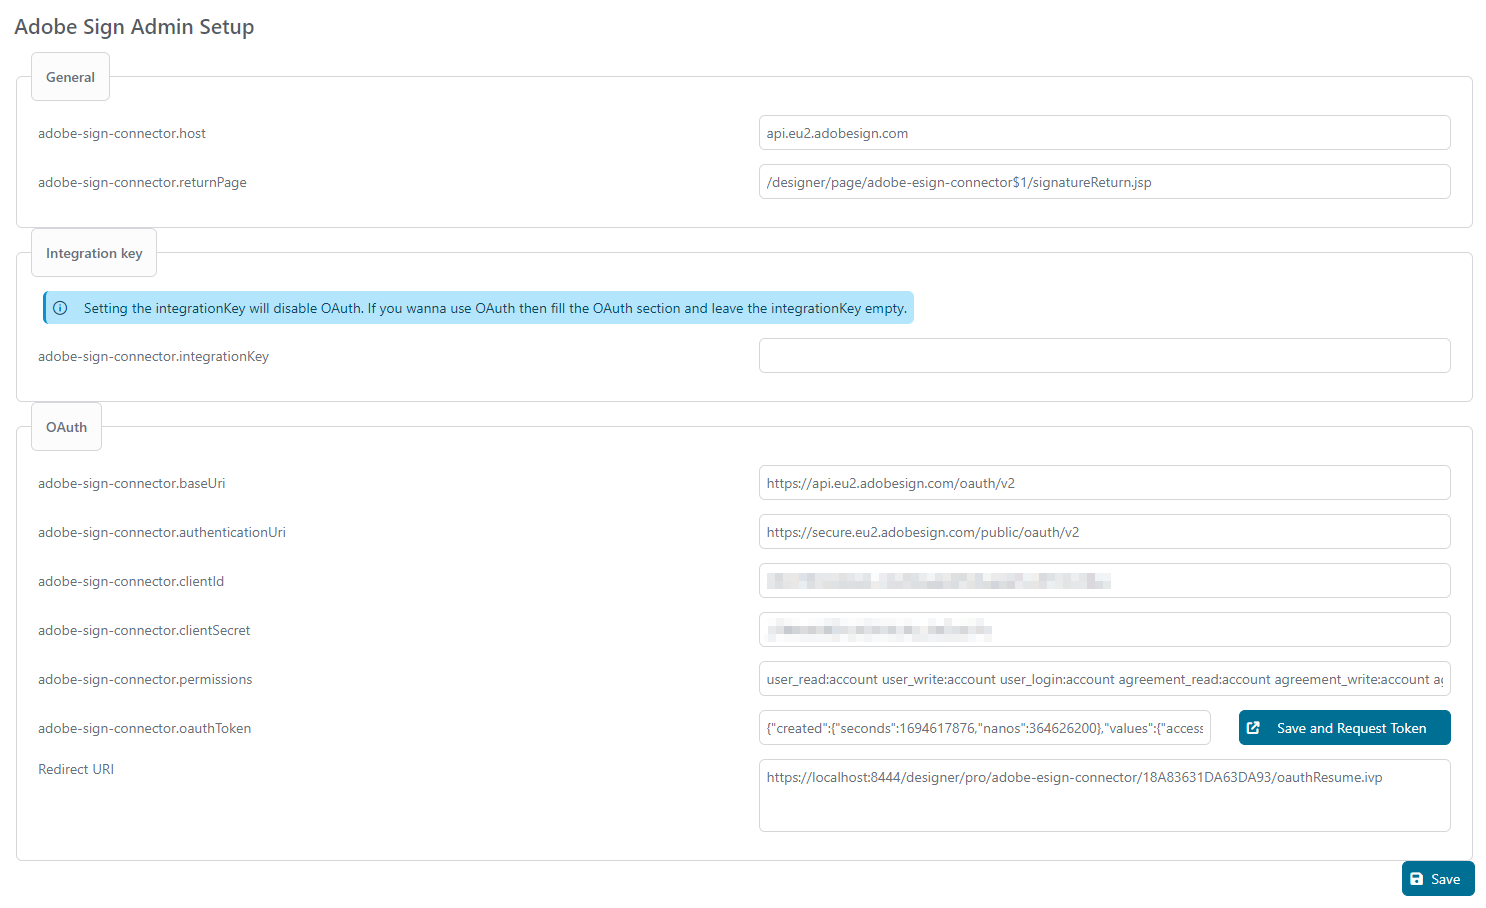
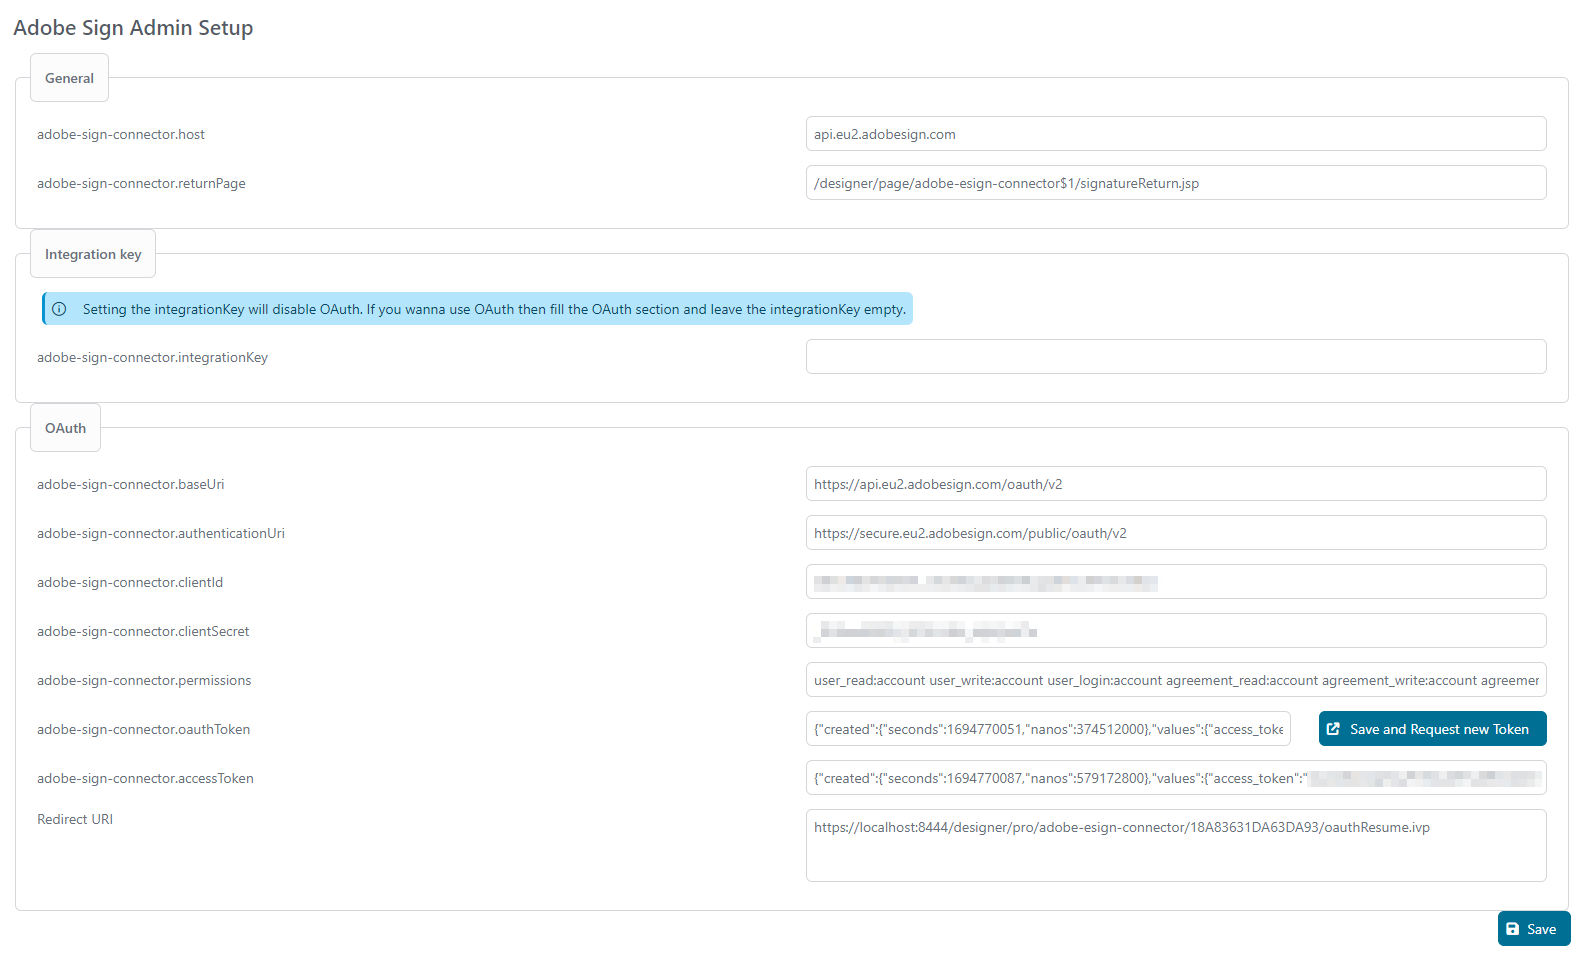
fix issue with storing refreshed tokens, improve admin page and documentation

diff --git a/adobe-esign-connector/src/com/axonivy/connector/adobe/esign/connector/service/AdminSetupService.java b/adobe-esign-connector/src/com/axonivy/connector/adobe/esign/connector/service/AdminSetupService.java
@@ -19,7 +19,6 @@ import org.primefaces.PrimeFaces;
 
 import com.axonivy.connector.adobe.esign.connector.AdminSetup.AdminSetupData;
 import com.axonivy.connector.adobe.esign.connector.auth.OAuth2Feature.AccessTokenRequest;
-import com.axonivy.connector.adobe.esign.connector.auth.OAuth2Feature.RefreshTokenRequest;
 import com.axonivy.connector.adobe.esign.connector.auth.oauth.OAuth2UriProperty;
 import com.axonivy.connector.adobe.esign.connector.auth.oauth.Token;
 import com.axonivy.connector.adobe.esign.connector.auth.oauth.VarTokenStore;
@@ -45,6 +44,7 @@ public class AdminSetupService {
 		data.setOauthToken(AdobeVariable.OAUTH_TOKEN.getValue());
 		data.setPermissions(AdobeVariable.PERMISSIONS.getValue());
 		data.setReturnPage(AdobeVariable.RETURN_PAGE.getValue());
+		data.setAccessToken(AdobeVariable.ACCESS_TOKEN.getValue());
 	}
 
 	/**
@@ -60,8 +60,7 @@ public class AdminSetupService {
 		AdobeVariable.INTEGRATION_KEY.updateValue(data.getIntegrationKey());
 		AdobeVariable.PERMISSIONS.updateValue(data.getPermissions());
 		AdobeVariable.RETURN_PAGE.updateValue(data.getReturnPage());
-		// dont updateW oauth token variable
-		AdobeVariable.OAUTH_TOKEN.updateValue(data.getOauthToken());
+		// dont update oauth token variables
 	}
 
 	/**
@@ -100,27 +99,29 @@ public class AdminSetupService {
 		var clientSecret = AdobeVariable.CLIENT_SECRET.getValue();
 		UriBuilder tokenBaseUri = UriBuilder.fromUri(new URI(AdobeVariable.BASE_URI.getValue()));
 
-		VarTokenStore store = VarTokenStore.get(AdobeVariable.OAUTH_TOKEN.getVariableName());
-		Token token = store.getToken();
+		// get token stores for refresh and access tokens
+		VarTokenStore refreshTokenStore = VarTokenStore.get(AdobeVariable.OAUTH_TOKEN.getVariableName());
+		VarTokenStore accessTokenStore = VarTokenStore.get(AdobeVariable.ACCESS_TOKEN.getVariableName());
 
+		//request new token
 		Client client = ClientBuilder.newClient();
-		Response response = null;
-		if (token == null || !token.hasRefreshToken()) {
-			tokenBaseUri.path(OAuth2UriProperty.TOKEN_RELATIVE_PATH);
-			AccessTokenRequest authRequest = new AccessTokenRequest(authCode, clientId, clientSecret,
-					createRedirectUrl());
-			WebTarget target = client.target(tokenBaseUri);
-			response = target.request().post(Entity.form(authRequest.paramsMap()));
-		} else {
-			tokenBaseUri.path(OAuth2UriProperty.REFRESH_RELATIVE_PATH);
-			RefreshTokenRequest authRequest = new RefreshTokenRequest(token.refreshToken(), clientId, clientSecret);
-			WebTarget target = client.target(tokenBaseUri);
-			response = target.request().post(Entity.form(authRequest.paramsMap()));
-		}
+		tokenBaseUri.path(OAuth2UriProperty.TOKEN_RELATIVE_PATH);
+		AccessTokenRequest authRequest = new AccessTokenRequest(authCode, clientId, clientSecret,
+				createRedirectUrl());
+		WebTarget target = client.target(tokenBaseUri);
+		Response response = target.request().post(Entity.form(authRequest.paramsMap()));
+//		else {
+//			tokenBaseUri.path(OAuth2UriProperty.REFRESH_RELATIVE_PATH);
+//			RefreshTokenRequest authRequest = new RefreshTokenRequest(refreshToken.refreshToken(), clientId, clientSecret);
+//			WebTarget target = client.target(tokenBaseUri);
+//			response = target.request().post(Entity.form(authRequest.paramsMap()));
+//		}
 		if (response.getStatusInfo().getFamily() == Family.SUCCESSFUL) {
 			GenericType<Map<String, Object>> map = new GenericType<>(Map.class);
+			// store new token
 			Token newToken = new Token(response.readEntity(map));
-			store.setToken(newToken);
+			refreshTokenStore.setToken(newToken);
+			accessTokenStore.setToken(newToken);
 		} else {
 			Ivy.log().error("failed to get access token: " + response);
 		}

diff --git a/adobe-esign-connector/src/com/axonivy/connector/adobe/esign/connector/auth/oauth/OAuth2BearerFilter.java b/adobe-esign-connector/src/com/axonivy/connector/adobe/esign/connector/auth/oauth/OAuth2BearerFilter.java
@@ -33,7 +33,8 @@ public class OAuth2BearerFilter implements javax.ws.rs.client.ClientRequestFilte
 	private static final String TOKEN_SEPARATOR = ":";
 	public static final String AUTH_SCOPE_PROPERTY = "AUTH.scope";
 
-	public static final AdobeVariable TOKEN_VAR = AdobeVariable.OAUTH_TOKEN;
+	public static final AdobeVariable REFRESH_TOKEN_VAR = AdobeVariable.OAUTH_TOKEN;
+	public static final AdobeVariable ACCESS_TOKEN_VAR = AdobeVariable.ACCESS_TOKEN;
 
 	private String property;
 	private Supplier<String> name = null;
@@ -59,22 +60,38 @@ public class OAuth2BearerFilter implements javax.ws.rs.client.ClientRequestFilte
 
 	protected final String getAccessToken(ClientRequestContext context) {
 		FeatureConfig config = new FeatureConfig(context.getConfiguration(), getSource());
-		VarTokenStore store = VarTokenStore.get(TOKEN_VAR.getVariableName());
-		var token = store.getToken();
-		if (token == null || token.isExpired()) {
-			if (token == null || !token.hasRefreshToken()) {
-				token = getNewAccessToken(context.getClient(), config);
-			} else {
-				token = getRefreshedAccessToken(context.getClient(), config, token.refreshToken());
+		VarTokenStore refreshTokenStore = VarTokenStore.get(REFRESH_TOKEN_VAR.getVariableName());
+		var refreshToken = refreshTokenStore.getToken();
+		
+		VarTokenStore accessTokenStore = VarTokenStore.get(ACCESS_TOKEN_VAR.getVariableName());
+		var accessToken = accessTokenStore.getToken();
+		
+		String resultToken = null;
+		
+		if(accessToken == null || accessToken.isExpired()) {
+			// refresh access token
+			if(refreshToken != null && refreshToken.hasRefreshToken()) {
+				accessToken = getRefreshedAccessToken(context.getClient(), config, refreshToken.refreshToken());
+				accessTokenStore.setToken(accessToken);
+				resultToken = accessToken.accessToken();
 			}
-			store.setToken(token); // keep for following requests
+			else { // get new access token
+				refreshToken = getNewAccessToken(context.getClient(), config);
+				refreshTokenStore.setToken(refreshToken);
+				accessTokenStore.setToken(refreshToken);
+				resultToken = refreshToken.accessToken();
+			}
 		}
-		if (!token.hasAccessToken()) {
-			store.setToken(null);
-			authError().withMessage("Failed to read 'access_token' from " + token).throwError();
+		else { // use existing token
+			resultToken = accessToken.accessToken();
+		}
+		
+		if (accessToken != null && !accessToken.hasAccessToken()) {
+			accessTokenStore.setToken(null);
+			authError().withMessage("Failed to read 'access_token' from " + refreshToken).throwError();
 		}
 
-		return token.accessToken();
+		return resultToken;
 	}
 
 	String createKey(FeatureConfig config) {

diff --git a/adobe-esign-connector/src/com/axonivy/connector/adobe/esign/connector/enums/AdobeVariable.java b/adobe-esign-connector/src/com/axonivy/connector/adobe/esign/connector/enums/AdobeVariable.java
@@ -18,6 +18,7 @@ public enum AdobeVariable {
 	USE_USER_PASS_FLOW_USER("adobe-sign-connector.useUserPassFlow.user"),
 	USE_USER_PASS_FLOW_PASS("adobe-sign-connector.useUserPassFlow.pass"),
 	OAUTH_TOKEN("adobe-sign-connector.oauthToken"),
+	ACCESS_TOKEN("adobe-sign-connector.accessToken"),
 	AUTHENTICATION_URI("adobe-sign-connector.authenticationUri");
 
 	private String variableName;

diff --git a/adobe-esign-connector-product/README.md b/adobe-esign-connector-product/README.md
@@ -16,23 +16,23 @@ YOUR DEMO DESCRIPTION GOES HERE
 
 ## Setup
 
-To use the Adobe Sign Connector it needs to be connected with Adobe. An Adobe administration account needs to be created. 
+To use the Adobe Sign Connector it needs to be connected with Adobe. An Adobe administration account needs to be created.
 
 ### Creating Adobe Sign account (Company/Developer)
 
  1. Create a **AdobeSign** Company **Account** OR for Developer Account creation use [Create Developer Account, APIs for custom applications | Acrobat Sign](https://www.adobe.com/sign/developer-form.html) an follow the steps:
 	 a. Fill form with personal and business data + continue
 	 ![fill-account-info](images/createAccountFillInfo.png)
-	 
+
 	 b. Provide a password + continue
 	 ![fill-password](images/createAccountPassword.png)
-	 
+
 	 c. Provide date of birth + continue
 	 ![fill-birth-date](images/createAccountBirthDate.png)
 
 	d. You will receive a verification code. Insert the code. Will automatically continue
 	 ![verification-code](images/createAccountVerificationCode.png)
-	
+
 	e. Developer account is created
 	![account-finished](images/createAccountFinished.png)
 
@@ -55,9 +55,9 @@ To be able to open the Admin Setup page the admin user needs to own `ADOBE_ESIGN
 ##### How to get Integration Key
 
  1. Go to your Adobe Sign account page: https://secure.adobesign.com/account/
- 2. Open **Access Tokens** configuration 
+ 2. Open **Access Tokens** configuration
  ![access-tokens](images/integrationKey1.png)
- 3. Create new Integration Key 
+ 3. Create new Integration Key
  ![create-integration-key](images/integrationKey2.png)
  4. Copy the Integration Key to the Admin Setup Page
  ![copy-integration-key](images/integrationKey3.png)
@@ -67,13 +67,13 @@ Adobe API doc references for OAuth
 
  1. https://secure.adobesign.com/public/static/oauthDoc.jsp
  2. https://opensource.adobe.com/acrobat-sign/developer_guide/oauth.html
- 
+
 #### OAuth API Application setup
 An API Application needs to be setup at Adobe Sign admin account before OAuth can be configured in the connector.
  1. Go to your Adobe Sign account page: https://secure.adobesign.com/account/
- 2. Go to **API Applications** configuration 
+ 2. Go to **API Applications** configuration
  ![api-applications](images/oauth1.png)
- 3. Create new API Application. Set the Name, Display Name and Domain 
+ 3. Create new API Application. Set the Name, Display Name and Domain
  ![new-application](images/oauth2.png)
  4. Open the newly created Application and copy ID and Secret to the connector's Admin Setup page
 	 a. Application ID = `adobe-sign-connector.clientId`
@@ -90,21 +90,22 @@ An API Application needs to be setup at Adobe Sign admin account before OAuth ca
 |--|--|--|
 | adobe-sign-connector.baseUri | Base URI for getting the access and refresh access tokens (without the `/token` or `/refresh` part) | `https://api.eu2.adobesign.com/oauth/v2`
 | adobe-sign-connector.authenticationUri| URL for the Authorization request (:exclamation:differs from tokens URL)| `https://secure.eu2.adobesign.com/public/oauth/v2`
-| adobe-sign-connector.clientId| Adobe API Application Client ID| 
-| adobe-sign-connector.clientSecret| Adobe API Application Client Secret | 
+| adobe-sign-connector.clientId| Adobe API Application Client ID|
+| adobe-sign-connector.clientSecret| Adobe API Application Client Secret |
 | adobe-sign-connector.permissions | List of permissions that will be requested for the OAuth token | `user_read:account user_write:account user_login:account agreement_read:account agreement_write:account agreement_send:account widget_read:account widget_write:account library_read:account library_write:account workflow_read:account workflow_write:account`
-| adobe-sign-connector.oauthToken | Just info about the OAuth token. Empty means there is no token initialized. To request a new token use the `Save and Request Token` button | 
+| adobe-sign-connector.oauthToken | Info about the OAuth refresh token. Empty means there is no token initialized. To request a new token use the `Save and Request new Token` button |
+| adobe-sign-connector.accessToken| Info about the OAuth access token. |
 | Redirect URI | This URI just needs to be setup to the API Application at Adobe Sign account page. (see **OAuth API Application setup** section)| `https://localhost:8444/designer/pro/adobe-esign-connector/18A83631DA63DA93/oauthResume.ivp`
 
 
 #### Requesting OAuth token
 :exclamation::exclamation::exclamation: Please configure all the Variables in OAuth section on the Admin Setup page (see previous section) as they are necessary for requesting the token.
 
- 1. Click the `Save and Request Token` button. You will be redirected to Adobe Sign login page if the configuration of the Variables is correct.
+ 1. Click the `Save and Request new Token` button. You will be redirected to Adobe Sign login page if the configuration of the Variables is correct.
 ![save-and-request-token](images/tokenRequest1.png)
 2. Login with your Adobe Sign account
 ![adobe-login](images/tokenRequest2.png)
-3. After successful login you should see all the requested permissions. Click **Allow Access**. 
+3. After successful login you should see all the requested permissions. Click **Allow Access**.
 ![request-permissions](images/tokenRequest3.png)
 4. The token will be retrieved and you should be redirected back to the connector's Admin Setup page and should be able to see the initialized token.
 ![token](images/tokenRequest4.png)
